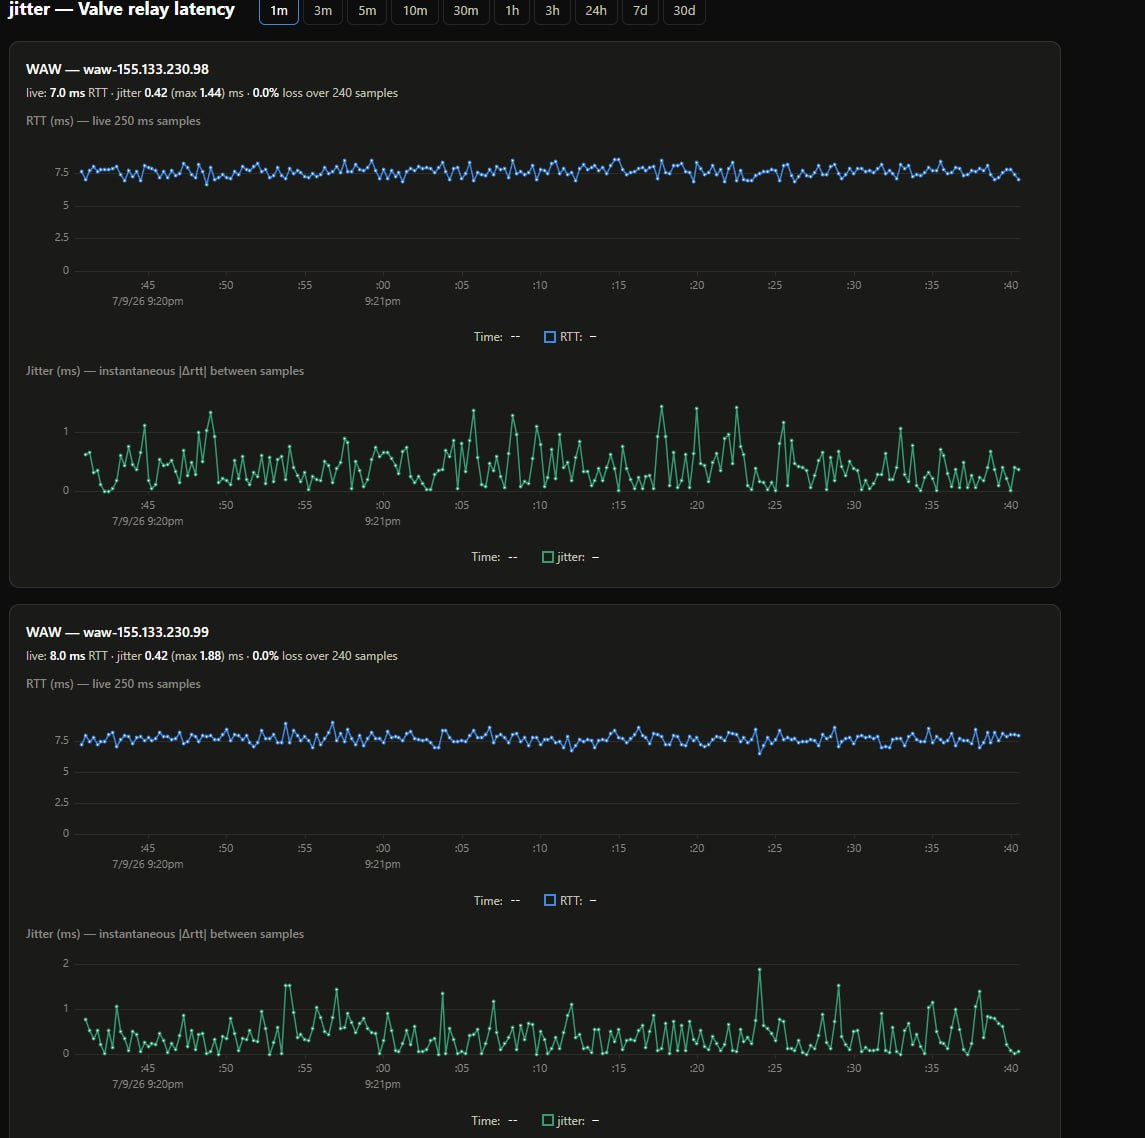
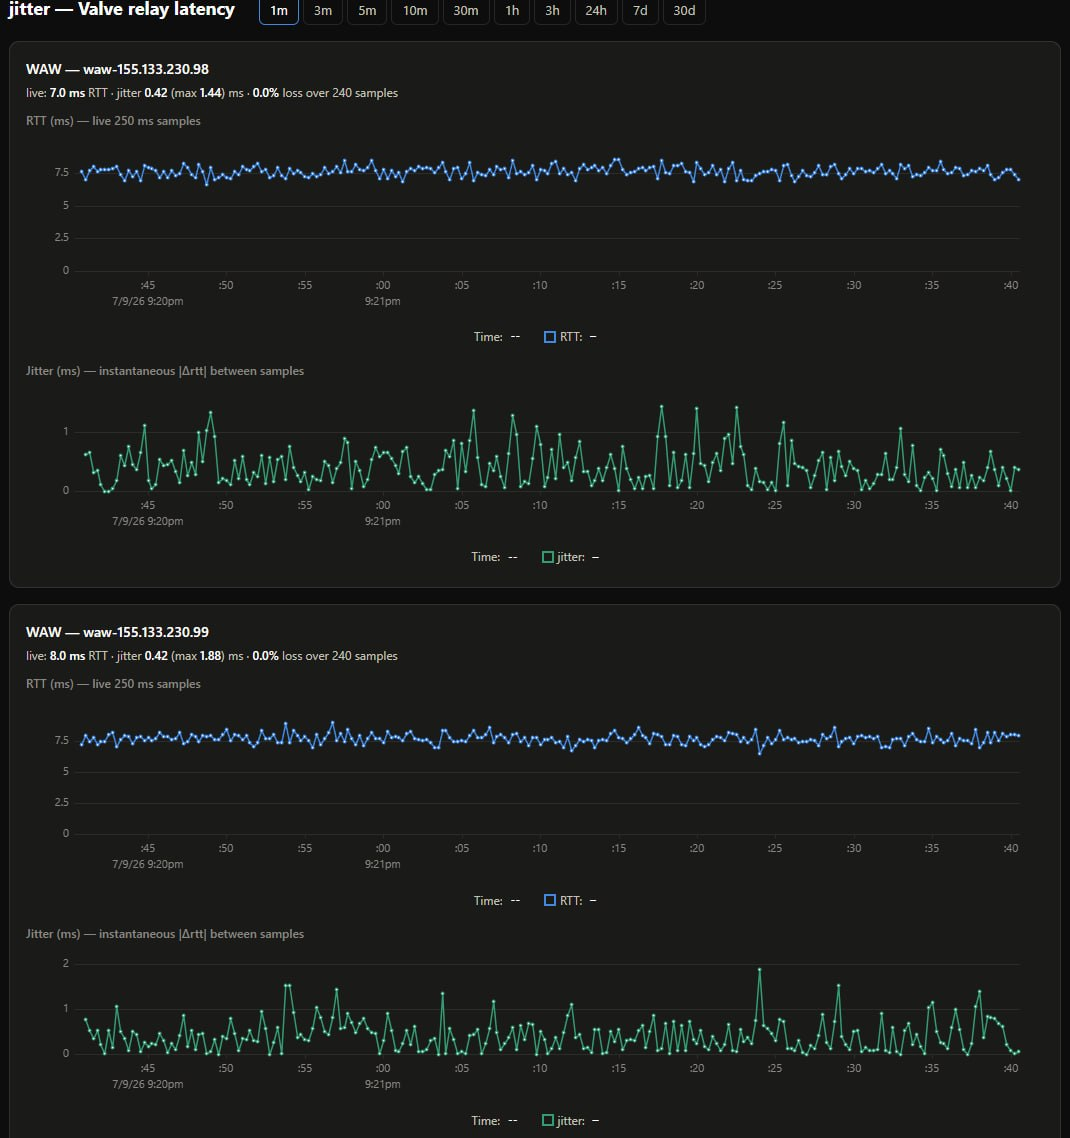
Update: examples

diff --git a/README.md b/README.md
@@ -7,6 +7,12 @@ Continuously measures RTT, jitter, and packet loss from your network to the
 Valve SDR relays that carry CS2 matchmaking traffic — so you can see *when*
 your connection degrades and whether it's one Valve path or your whole link.
 
+**Why jitter?** For smooth play, jitter (variation in latency) usually matters
+more than raw ping. CS2's servers and client-side interpolation / lag
+compensation absorb a *stable* latency, but they can't hide latency that keeps
+changing — that's what surfaces as stutter, rubber-banding, and inconsistent
+hit registration. A steady 60 ms plays better than an erratic 20 ms.
+
 ## How it measures
 
 CS2 traffic enters Valve's network at an SDR relay POP (Warsaw, Frankfurt,
@@ -32,12 +38,10 @@ connection** (the kind of pattern this tool exists to catch):
 
 ![24-hour history of a jittery, not-playable connection](docs/screenshots/example-24h-not-playable.png)
 
-Live 1-minute views of steady, low-jitter links that **play fine** (sub-1 ms
+A live 1-minute view of steady, low-jitter links that **play fine** (sub-1 ms
 jitter, no loss):
 
 ![live 1-minute view of a playable connection](docs/screenshots/example-live-playable-1.png)
-
-![live 1-minute view of a playable low-latency connection](docs/screenshots/example-live-playable-2.png)
 
 ## Dashboard
 